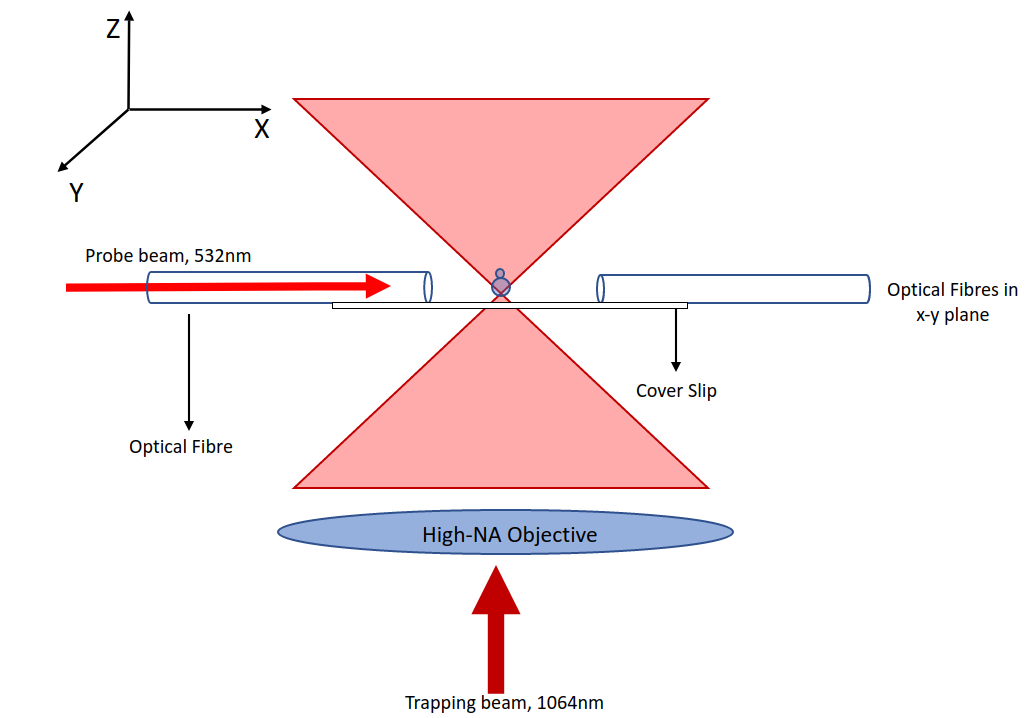
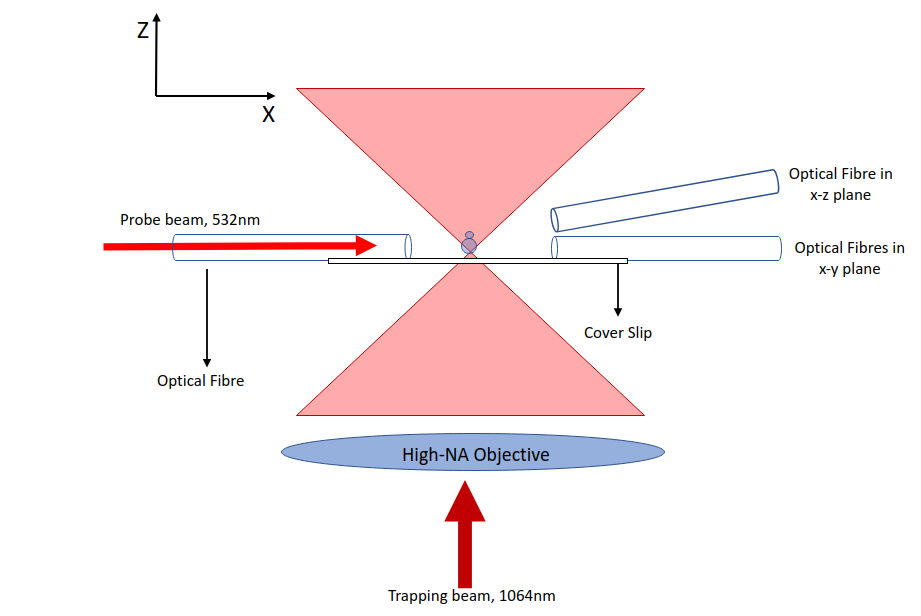
Add files via upload

diff --git a/Manuscript_rev2.tex b/Manuscript_rev2.tex
@@ -97,7 +97,7 @@ Since their invention in the late 1980's, Optical Tweezers have found applicatio
 The possibility of integrating light scattering with optical trapping was demonstrated by Saffran and co-workers in \cite{Bar-Ziv_1998} where a single-mode optical fibre was aligned to detect the scattered
 light from a trapped bead and its Brownian motion was studied.  While this allowed for studying the dynamics, structural information about the trapped bead was precluded as the measurement was obtained only at a single angle.  In this work, we propose a scheme that expands on the technique in \cite{Bar-Ziv_1998} to detect scattered light simultaneously at 3 angles as shown in Figure~\ref{fig:setup}, combined with a novel Bayesian Inference based analysis technique to enable interpretation of the resulting multi-angle data as well as optimisation of the setup to provide maximal information from the signal.
 
-To demonstrate the analysis, we study a simple, illustrative example of a trapped entity more complex than a single sphere (i.e.\ a trapped asymmetric dimer).  We explore how to optimise the experimental measurement to obtain the best estimate of the dimer's instantaneous orientation, as a further paradigmatic example of interpretation of the scattering data to obtain dynamical information on the trapped entity. There is a paucity of literature on measuring the orientation of trapped non-spherical particles till the recent attempt in Ref.~\cite{raudsepp2022estimating} where imaging was employed to study the orientation of trapped dimers. Here, we simulate the Brownian motion of a dimer and calculate the resulting scattered light, and show how Bayesian inference can be used to optimise extraction of the true dimer orientation from the light scattering signals given a choice of scattering measurement angles. Furthermore we demonstrate how the model can be fine tuned in situations where measurement uncertainty becomes significant. 
+To demonstrate the analysis, we study a simple, illustrative example of a trapped entity more complex than a single sphere (i.e.\ a trapped asymmetric dimer).  We explore how to optimise the experimental measurement to obtain the best estimate of the dimer's instantaneous orientation, as a further paradigmatic example of interpretation of the scattering data to obtain dynamical information on the trapped entity. There is a paucity of literature on measuring the orientation of trapped non-spherical particles till the recent attempt in Ref.~\cite{raudsepp2022estimating} where imaging was employed to study the orientation of trapped dimers. Here, we simulate the Brownian motion of a dimer and calculate the resulting scattered light, we utilise a neural network to determine the corresponding orientation. We then show how Bayesian inference can be used to optimise extraction of the true dimer orientation from the light scattering signals given a choice of scattering measurement angles. Furthermore we demonstrate how the model can be fine tuned in situations where measurement uncertainty becomes significant. 
 
 \begin{figure}
 \centering
@@ -152,11 +152,11 @@ Brownian OT returns the dimer's motion as a \textit{csv} file containing for eac
 \subsection{Orientation estimation from scattering measurements}
 \label{sec:Bayes}
 
-We consider our dimer from Section~\ref{sec:brownian} in an optical trap; at any point in time we can draw a unit vector $\hat{s}$ that points from the centre of larger sphere, to the centre of the smaller sphere. A plane wave 'probe' laser, directly perpendicular to the trapping laser, is incident on the dimer generating a scattering pattern that is dependent upon the dimer's orientation $I(\hat{\bf s}, \theta)$, computed using MSTM. To represent the experimental set up, three angles  ($\theta_1, \ \theta_2, \ \theta_3$) were chosen and the calculated intensity at each angle $\theta_k$ was recorded as $I(\hat{s}, \theta_k)$
+We consider our dimer from Section~\ref{sec:brownian} in an optical trap; at any point in time we can draw a unit vector $\hat{s}$ that points from the centre of larger sphere, to the centre of the smaller sphere. A plane wave 'probe' laser, directly perpendicular to the trapping laser, is incident on the dimer generating a scattering pattern that is dependent upon the dimer's orientation $I(\hat{\bf s}, \theta)$, computed using MSTM. To represent the experimental set up, four angles  ($\theta_1, \ \theta_2, \ \theta_3, \ \theta_4$) were chosen and the calculated intensity at each angle $\theta_k$ was recorded as $I(\hat{s}, \theta_k)$. 
 
-Our goal is to determine the orientation of our trapper dimer based on the scattering measurements $I(\hat{n}, \ \theta_k)$ collected from three detection fibres situated at $\theta_1,\ \theta_2, \ \& \ \theta_3$. Rather than get an exact estimate of the dimer's orientation the possible orientation space is discretized into $\textit{n}_{ref} \ = \ 30$ possible reference orientations $\hat{\bf n}_{\alpha}$ that are evenly distributed on a unit sphere \cite{Rey2006}, see Figure~\ref{fig:dimer} b. The maximum spacing between two neighbouring reference orientations is roughly 0.895 radians. 
+Our goal is to determine the orientation of our trapper dimer based on the scattering measurements $I(\hat{n}, \ \theta_k)$ collected from three detection fibres situated at $\theta_1,\ \theta_2, \ \theta3, \ \& \ \theta_4$. Rather than get an exact estimate of the dimer's orientation the possible orientation space is discretized into $\textit{n}_{ref} \ = \ 30$ possible reference orientations $\hat{\bf n}_{\alpha}$ that are evenly distributed on a unit sphere \cite{Rey2006}, see Figure~\ref{fig:dimer} b. The maximum spacing between two neighbouring reference orientations is roughly 0.895 radians. 
 
-Using MSTM we compute the raw intensities that would be collected from the dimer in each reference orientation $I(\hat{\bf n}_{\alpha}, \theta_k)$. 
+Using MSTM we compute the raw intensities that would be collected from the dimer in each reference orientation $I(\hat{\bf n}_{\alpha}, \theta_k)$. We noticed that keeping all four angles in the same plane resulted in identical signals, to counter this we projected one of our angles out of the horizontal plane and into the vertical plane resulting in unique signals for each reference orientation. 
 %
 These raw intensities are normalized according to
 \begin{align}
@@ -166,27 +166,18 @@ These raw intensities are normalized according to
   \frac{I(\hat{\bf n}_\alpha, \theta_k) - \langle I(\hat{\bf n},\theta_k) \rangle } 
   {\langle I^2(\hat{\bf n},\theta_k) \rangle -\langle I(\hat{\bf n}, \theta_k)\rangle^2}
 \end{align}
-where the denominator is simply the standard deviation for our values of $I(\hat{\bf n}, \theta_k)$. The reference orientations, raw intensities, and scaled signals are given in Tables~\ref{tab:A1} and \ref{tab:A2}. The distribution of collected signals bares no specific relationship with its associated reference orientation, in some cases different reference orientations will have identical signals. This is an inherent challenge of the inverse light scattering problem, fortunately we can apply statistical techniques to resolve the lack of relationship between orientation and scattering.
+where the denominator is simply the standard deviation for our values of $I(\hat{\bf n}, \theta_k)$. The reference orientations, raw intensities, and scaled signals are given in Tables~\ref{tab:A1} and \ref{tab:A2}. The distribution of collected signals bares no specific relationship with its associated reference orientation, this is an inherent problem of the inverse light scattering pattern. Fortunately, for cases where the uncertainty in our signal measurements is low, we can easily predict the orientation by utilising computational techniques such as neural networks. 
 
-In practice, $y_k(\hat{\bf s})$ will have an inherent amount of uncertainty in its measurement. We can compare any instantaneous signal $y_1, y_2, y_3$ to our reference signals by assuming that the measurement uncertainty is Gaussian and is centred about $y_k(\hat{\bf n}_\alpha)$.
+We utilised a python machine learning program called scikit-learn to build a neural network for identifying the dimer's orientation from its light scattering signal. The network was trained by generating a database of random orientation vectors, calculating the light scattering signals, and then having the network estimate the probability of the signal coming from our dimer in that corresponding reference orientation. After making its estimation the network's loss function was evaluated and used to improve the estimation, we trained the network until the improvement in the loss function was less than 0.0001. 
 %
-Combining the signals from all three detection angles provides us with the conditional probability that, should the dimer be in orientation
-$\hat{\bf n}_\alpha$, it would produce a signal ($y_1$, $y_2$, $y_3$):
-\begin{align}
-\label{eq:conditional}
-  p(y_1, y_2, y_3|\hat{\bf n}_\alpha)
-  = \prod^3_{k=1}
-(2\pi\sigma_k^2)^{-1/2} 
-e^{-(y_{k}-y_{k}(\hat{\bf n}_\alpha))^2/2\sigma_k^2}
-\end{align}
-where $\sigma_k$ is related to the uncertainty in our measurement $y_k(\hat{\bf s})$. We left this as a tuneable parameter to determine the influence of experimental error on our predictive method. Equation~\eqref{eq:conditional} gives the probability that a signal ($y_1$, $y_2$, $y_3$) will be measured if a dimer is in reference orientation $\hat{\rm n}_\alpha$. Using Bayes' theorem, the probability that the dimer is in reference orientation $\hat{\bf n}_\alpha$, given that the signal ($y_1$, $y_2$, $y_3$) is measured, can be estimated:
-%.
+The estimation provided by the neural network can be improved further by accounting for any prior information we know about the dimer. We therefore, utilise Bayesian inference to update our neural networks estimation. 
+
 \begin{align}
   \label{eq:bayes}
-  p(\hat{\bf n}_\alpha| y_1,y_2,y_3)
+  p(\hat{\bf n}_\alpha| y_k(\hat{\bf s}))
   &=
-    \frac{p(y_1,y_2,y_3|\hat{\bf n}_\alpha)
-    p(\hat{\bf n}_\alpha)}{p(y_1, y_2, y_3)}
+    \frac{p(y_k(\hat{\bf s})|\hat{\bf n}_\alpha)
+    p(\hat{\bf n}_\alpha)}{p(y_k(\hat{\bf s}))}
 \end{align}
 where $p(\hat{\bf n}_\alpha)$ and $p(y_1, y_2, y_3)$ are the prior estimates of the distributions of particle orientations and instantaneous signals, respectively.
 %
@@ -234,9 +225,9 @@ Section~\ref{sec:Bayes} and Section~\ref{sec:divergence} are all for a single me
 \subsection{Testing the Model}
 \label{sec:test}
 
-Using our simulation from Section~\ref{sec:brownian} we simulated the motion of a silica dimer trapped within a 5 mW optical trap. The dimer is comprised of two tangent spheres with radii $1 \mu m$ and $0.5 \mu m$ respectively. We simulated the first 10 seconds of motion, calculating the orientation and position every 1 ms. 
+Using our simulation from Section~\ref{sec:brownian} we simulated the motion of a silica dimer ($n = 1.59$) trapped in water ($n = 1.33$) within a 5 mW optical trap. The trapping laser is 1064nm NIR focused through a 1.25 NA objective. The dimer is comprised of two tangent spheres with radii $1 \mu m$ and $0.5 \mu m$ respectively. We simulated the first 10 seconds of motion, calculating the orientation and position every 1 ms. 
 
-We applied Eq.~\eqref{eq:bayes} --- covered in Section~\ref{sec:Bayes} --- and the reference orientation with the highest probability is taken as our estimation of the dimer's instantaneous orientation. To visualise our model's performance  we plotted the radial distance between our estimation $\hat{\bf n}_{est}$ of the orientation and the dimer's \emph{actual} instantaneous orientation $\hat{\bf s}$ versus time. For comparison, we also plotted the radial distance between the closest reference orientation, denoted $\hat{\bf n}_{best}$, and the dimer's instantaneous orientation. The dotted line indicates the maximum radian distance ($0.896$ radians) between two neighbouring reference orientations, if we are under this line then we know our estimate and the best result are beside one another. If we assume our prior of the reference orientations $p(\hat{\bf n}_\alpha)$ to be uniform the model is somewhat random in it's estimation of the orientation, as seen in Figure~\ref{fig:uniform}.
+We applied Eq.~\eqref{eq:bayes} --- covered in Section~\ref{sec:Bayes} --- and the reference orientation with the highest probability is taken as our estimation of the dimer's instantaneous orientation. To visualise our model's performance  we plotted the radial distance between our estimation $\hat{\bf n}_{est}$ of the orientation and the dimer's \emph{actual} instantaneous orientation $\hat{\bf s}$ versus time. For comparison, we also plotted the radial distance between the closest reference orientation, denoted $\hat{\bf n}_{best}$, and the dimer's instantaneous orientation. The dotted line indicates the maximum radian distance ($0.896$ radians) between two neighbouring reference orientations, if we are under this line then we know our estimate and the best result are beside one another. If we assume our prior of the reference orientations $p(\hat{\bf n}_\alpha)$ to be uniform the neural network's predictions are fairly accurate with the occasional random jump away from the correct result. 
 
 \begin{figure}[h]
 	\centering
@@ -245,14 +236,14 @@ We applied Eq.~\eqref{eq:bayes} --- covered in Section~\ref{sec:Bayes} --- and t
 	\label{fig:uniform}
 \end{figure} 
 
-The reasoning for this lies with the fact that differences in reference signals and reference orientation spacing are not directly correlated with each other. In some cases, two reference orientation will have identical signal responses. To remedy this we need to account for the fact that a trapped dimer's motion i limited due to the trap stiffness. Therefore, the prior of the reference orientations $p(\hat{\bf n}_\alpha)$ was defined at each time step by accounting for the physical distance between our previous estimate $\hat{\bf n}_{est}(t - \Delta t)$ and each reference orientation $\hat{\bf n}_\alpha(t)$:
+The reasoning for this is that the distance between reference signals ($\hat{\bf n}_\alpha$) does not correlate with the spacing between reference orientations. To improve our estimation we can account for the fact that the motion of the dimer is limited due to the trapping stiffness. Therefore, our prior of the reference orientations $p(\hat{\bf n}_\alpha$ was redefined at each time step by accounting for the physical distance between our previous estimate $\hat{\bf n}_{est}(t-\Delta t)$ and each reference orientation $\hat{\bf n}_\alpha$
 
 \begin{align}
   p(\hat{\bf n}_\alpha)
-  &=\frac{e^{\beta (\hat{\bf n}_\alpha (t) 
+  &=\frac{e^{\beta (\hat{\bf n}_\alpha 
   	\cdot \hat{\bf n}_{est}(t-\Delta t))}}
   {\sum_{\alpha=1}^{n_{\rm ref}}
-	e^{\beta (\hat{\bf n}_\alpha (t) 
+	e^{\beta (\hat{\bf n}_\alpha 
 	\cdot \hat{\bf n}_{est}(t-\Delta t)}}
 	\label{eq:boltz}
 \end{align}
@@ -312,14 +303,14 @@ The Brownian OT software was used to simulate the motion of a trapped dimer ($a_
 
 As can be seen from Figure~\ref{fig:motion}, the dimer undergoes a full $180^{\circ}$ rotation upon entering the trap.  Typically horizontal alignment of a dimer is unstable and will result in the particle rotating to align along its vertical axis.  It is interesting to note that the dimer is furthest from the trap centre as it goes into a horizontal orientation before drawing closer again as it inverts completely. Further simulations of differently sized dimers showed a similar behaviour of moving away from the trap focus while remaining trapped, but only when $a_1 \geq 2a_2$.  Dimers with size ratios $a_1 < 2a_2$ immediately aligned into a fixed vertical position.
 %
-In the simulations of Vigilante~\emph{et~al}.\ = \cite{Vigilante2020Brownian_OT}, trapped symmetrical dimers were investigated; their findings showed that the optical torque on the dimer goes to zero while aligned vertically and is at its maximum in a horizontal alignment. Therefore, the inversion of an asymmetric dimer suggests that if the size difference is significant the optical torque is minimal for a dimer in both horizontal and vertical orientations. Once we have our experimental set up complete we can confirm this by trapping an asymmetric dimer and monitoring its orientation. 
+In the simulations of Vigilante~\emph{et~al}.\ \cite{Vigilante2020Brownian_OT}, trapped symmetrical dimers were investigated; their findings showed that the optical torque on the dimer goes to zero while aligned vertically and is at its maximum in a horizontal alignment. Therefore, the inversion of an asymmetric dimer suggests that if the size difference is significant the optical torque is minimal for a dimer in both horizontal and vertical orientations. Once we have our experimental set up complete we can confirm this by trapping an asymmetric dimer and monitoring its orientation. 
 %%%%%%%%%%%%%%%%%%%%%%%%%%%%%%%%%%%%%%%%%%%%%%%%%%%%%%%%%%%%%%%%%%%%%%%%%%%%%%%%
 \subsection{Impact of measurement precision on model predictions}
 \label{sec:epsilon}
 
 A key assumption of Eq.~\eqref{eq:conditional} is that we assume our measurement of scattering signals will inherently have some degree of uncertainty. This is the central premise that allows us to form Eq.~\eqref{eq:conditional}. In an experimental situation the most common source of uncertainty is from the bias in our detection fibres. Therefore, understanding the limits of acceptable uncertainty is necessary for implementing this to experimental work. To this end we simulated the uncertainty in our signal measurements via the following:
 \begin{align}
-	\eta = \epsilon \sigma_k
+	\eta_k = \epsilon \bar{y_k}(\hat{\bf n}_\alpha)
 	\rightarrow \ y_k(\hat{\bf{s}}) = y_k(\hat{\bf{s}}) \pm \eta
 \end{align}
 Where $\eta$ is the signal noise and $\epsilon$ is our percent error in our signal measurement. We ran our model while varying the value of $\epsilon$, Figure~\ref{fig:epsilon} shows the performance of the method with a selection of angles $15^{\circ}$, $55^{\circ}$, and $90^{\circ}$ and $\beta$ set to $1$:
@@ -340,7 +331,7 @@ Where $\eta$ is the signal noise and $\epsilon$ is our percent error in our sign
 	\label{fig:epsilon}
 \end{figure}
 
-As can be seen from Figure~\ref{fig:epsilon}, the inclusion of a signal noise results in a gradual decrease in our model's performance. Eventually after the signal exceeds $X \ \%$ the performance drops of significantly as our estimation begins to fluctuate seemingly at random, similar to the behaviour shown in Figure~\ref{fig:uniform}. One common feature of our model's estimations is the large hump from $t = 1 \ s$ to $t = 4 \ s$; looking at the simulation data this correlates with the point where the dimers is moving very quickly as it inverts within the trap. One way we can alleviate the randomness is by increasing the weighting factor $\beta$ that reflects the degree of freedom our dimer has within the trap. We repeated the model at $75\%$ signal error but this time increasing $\beta$ in order to demonstrate its effect on our model's performance. 
+As can be seen from Figure~\ref{fig:epsilon}, the inclusion of a signal noise results in a gradual decrease in our model's performance. Eventually after the signal exceeds $X \ \%$ the accuracy drops of significantly as our estimation begins to fluctuate seemingly at random. Similar to the behaviour shown in Figure~\ref{fig:uniform}. One common feature of our model's estimations is the large hump from $t = 1 \ s$ to $t = 4 \ s$; looking at the simulation data this correlates with the point where the dimers is moving very quickly as it inverts within the trap. We can alleviate the randomness by increasing the weighting factor $\beta$ that reflects the degree of freedom our dimer has within the trap. We repeated the model at $75\%$ signal error but this time increasing $\beta$ in order to demonstrate its effect on our model's performance. 
 
 \begin{figure}[h]
 	\centering
@@ -354,9 +345,9 @@ As can be seen from Figure~\ref{fig:epsilon}, the inclusion of a signal noise re
 	\label{fig:beta}
 \end{figure}
 
-The exact value of $\beta$ that will best optimise our performance varies based on the expected signal error, therefore we can use it as variable for fine tuning our results to suit our expected signal error. Eventually $\beta$ begins to over correct our estimate to the extent that we are a full radian away from the correct result. The other downside of increasing $\beta$ is that it also reduces our model's confidence significantly; this is not so much a problem for orientation where we can measure the difference between different reference orientation. It may however, pose an issue in scenarios where we want to characterise something more discrete such as scattering shape or size. 
+As seen from Figure~\ref{fig:beta} $\beta$ helps to significantly reduce the random fluctuations in our model, eventually $\beta$ begins to over correct our estimate as seen in 7b. The exact value of $\beta$ that will best optimise our performance varies based on the expected signal error, therefore we can use it as variable for fine tuning our results to suit our expected signal error. The downside of increasing $\beta$ is that it also reduces our model's confidence significantly; this is not so much a problem for orientation where we can measure the difference between reference orientation. It may however, pose an issue in scenarios where we want to characterise something more discrete such as scattering shape or size. 
 
-In future, we want to also investigate the possibility of extending our prior $p(\hat{\bf n})$ so we account for not just the change in orientation after one time step but after 2 or 3 time steps to investigate the auto correlation function of our dimer's motion.
+In future, we want to investigate the possibility of extending our prior $p(\hat{\bf n})$ so we account for not just the change in orientation after one time step but after 'n' time steps to investigate the auto correlation function of our dimer's motion.
 
 %%%%%%%%%%%%%%%%%%%%%%%%%%%%%%%%%%%%%%%%%%%%%%%%%%%%%%%%%%%%%%%%%%%%%%%%%%%%%%%%
 \subsection{Parameter Optimisation Results}
